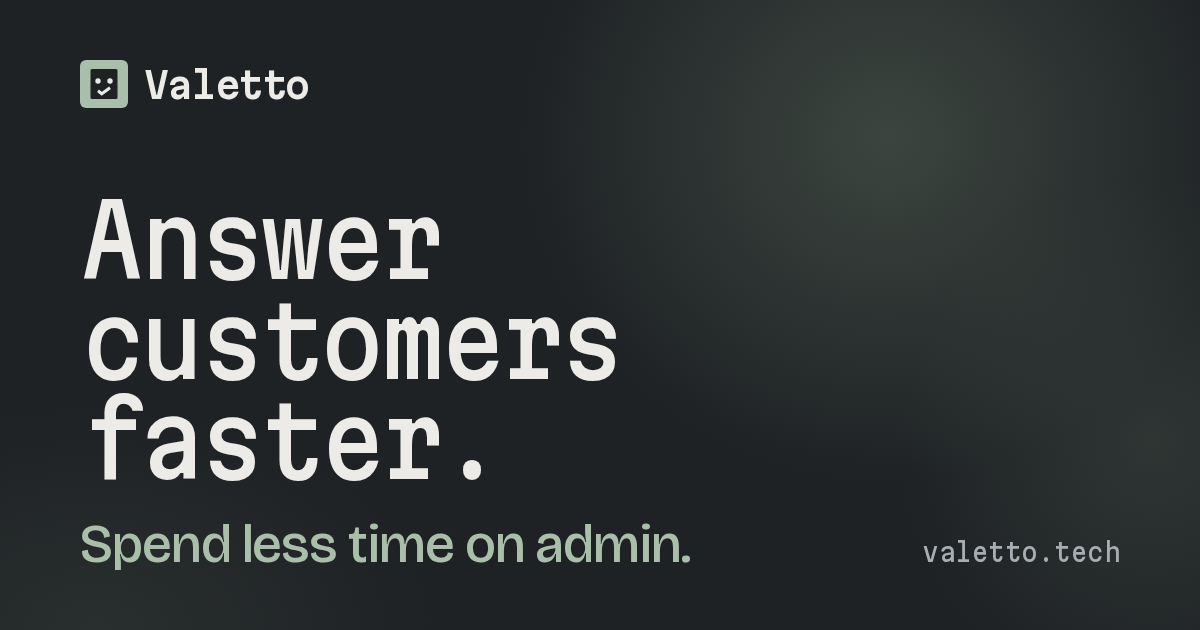
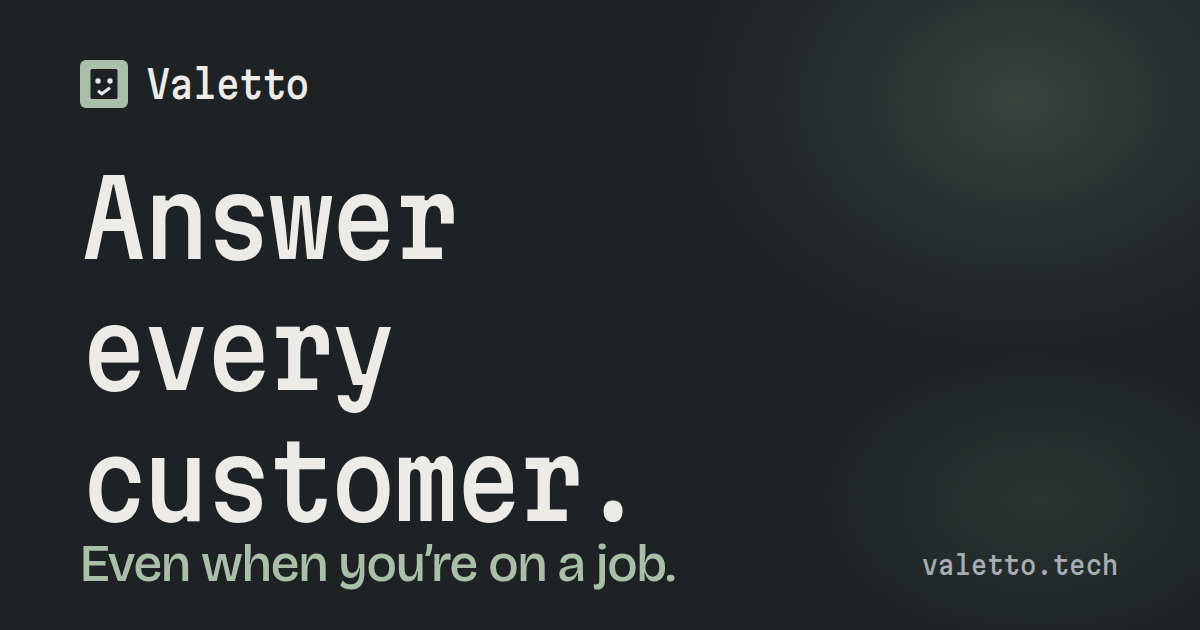
Valetto: hero and share text answer every customer, even on a job
The homepage headline and support line, the social image, and the
title and description now use the approved pair. The subhead still
says answers come from the website and content, and anything the bot
cannot answer goes to the owner.

diff --git a/tests/valetto-og.test.ts b/tests/valetto-og.test.ts
@@ -3,11 +3,30 @@ import { join } from 'node:path';
 import { getPathMatch } from 'next/dist/shared/lib/router/utils/path-match';
 import { describe, expect, it } from 'vitest';
 import nextConfig from '../next.config';
-import { VALETTO_OG_IMAGE, VALETTO_PATHS, valettoMeta } from '@/components/site/valetto/seo';
+import { VALETTO_DESCRIPTION, VALETTO_OG_IMAGE, VALETTO_PATHS, VALETTO_TITLE, valettoMeta } from '@/components/site/valetto/seo';
 
 const ROOT = join(__dirname, '..');
 
 describe('Valetto social image', () => {
+  it('share text leads with the pain and matches the hero lines', () => {
+    const page = readFileSync(join(ROOT, 'app/(site)/valetto/page.tsx'), 'utf8');
+    const sub = page.match(/<p className="vt-sub">([\s\S]*?)<\/p>/)?.[1] ?? '';
+    expect(VALETTO_TITLE).toBe('Customers wait while you’re on a job. Valetto answers.');
+    expect(VALETTO_TITLE.length).toBeLessThanOrEqual(60);
+    expect(VALETTO_TITLE.startsWith('Valetto')).toBe(false);
+    expect(VALETTO_DESCRIPTION).toBe(
+      'Answer every customer, even when you’re on a job. It answers from your website and content, and passes anything it can’t answer to you.',
+    );
+    expect(VALETTO_DESCRIPTION.length).toBeLessThanOrEqual(155);
+    expect(VALETTO_DESCRIPTION).not.toMatch(/approv|review first/i);
+    expect(VALETTO_OG_IMAGE.alt).toBe('Valetto: Answer every customer. Even when you’re on a job.');
+    expect(page).toContain('text="Answer every customer."');
+    expect(page).toContain('text="Even when you’re on a job."');
+    expect(sub).toContain('answers from your website and content');
+    expect(sub).toContain('passes anything it can’t answer to you');
+    expect(sub).not.toMatch(/approv|review first/i);
+  });
+
   it('is a 1200x630 PNG in public at the path the metadata uses', () => {
     const png = readFileSync(join(ROOT, 'public', VALETTO_OG_IMAGE.url));
     expect(png.subarray(1, 4).toString('ascii')).toBe('PNG');

diff --git a/components/site/valetto/seo.ts b/components/site/valetto/seo.ts
@@ -4,9 +4,9 @@ import type { Metadata } from 'next';
 export const VALETTO_URL = 'https://valetto.tech';
 
 /** Valetto's default share text: the root layout's title and description, and the valetto.tech home page. */
-export const VALETTO_TITLE = 'Valetto: answer customers faster with a smart bot for your business';
+export const VALETTO_TITLE = 'Customers wait while you’re on a job. Valetto answers.';
 export const VALETTO_DESCRIPTION =
-  'Answer customers faster and spend less time on admin. A smart bot that answers from your website and passes anything it can’t answer to you.';
+  'Answer every customer, even when you’re on a job. It answers from your website and content, and passes anything it can’t answer to you.';
 
 /** The Valetto pages as served at the root of valetto.tech (next.config.ts rewrites them to /valetto/...; /connect and /connect/meta-muse are served as is). */
 export const VALETTO_PATHS = ['/', '/early-access', '/agent-to-agent', '/connect', '/connect/meta-muse', '/privacy', '/terms'] as const;
@@ -19,7 +19,7 @@ export const VALETTO_OG_IMAGE = {
   url: '/valetto/og.png',
   width: 1200,
   height: 630,
-  alt: 'Valetto: Answer customers faster. Spend less time on admin.',
+  alt: 'Valetto: Answer every customer. Even when you’re on a job.',
 };
 
 /**

diff --git a/app/(site)/valetto/page.tsx b/app/(site)/valetto/page.tsx
@@ -232,13 +232,13 @@ export default function ValettoPage() {
             </div>
             <h1 id="h1">
               <span className="l">
-                <Words text="Answer customers faster." />
+                <Words text="Answer every customer." />
               </span>{' '}
               <span className="l vt-dim vt-h1-2">
-                <Words text="Spend less time on admin." from={3} />
+                <Words text="Even when you’re on a job." from={3} />
               </span>
             </h1>
-            <p className="vt-sub">A smart bot for your business. It answers customers from your website and passes anything it can’t answer to you.</p>
+            <p className="vt-sub">A smart bot for your business. It answers from your website and content, and passes anything it can’t answer to you.</p>
             <div className="vt-cta">
               <Link className="btn vt-btn" href={EARLY_ACCESS}>
                 Ask for early access
